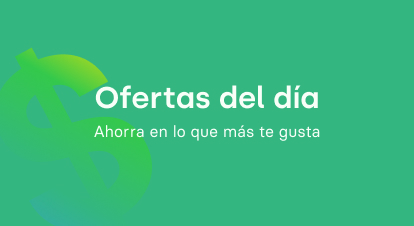
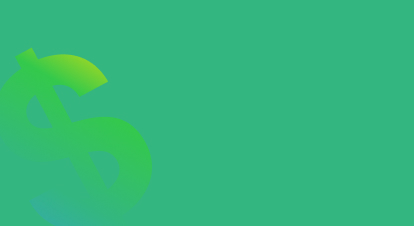
Add OffersView
Add OffersView

Changed region(s): [[0.2319, 0.3717, 0.7826, 0.4956], [0.2319, 0.5575, 0.7826, 0.6195]]

diff --git a/src/views/Offers.vue b/src/views/Offers.vue
@@ -1,0 +1,49 @@
+<template>
+  <div>
+    <Header v-on:open-cart="cart = true" v-on:close-cart="cart = false" v-bind:cart="cart"></Header>
+    <div class="offers-background">
+      <h1 class="h1 offers-title">Ofertas del día</h1>
+      <div class="body offers-subtitle">Ahorra en lo que más te dusta</div>
+    </div>
+    <DishCard v-for="dish in dishes" v-bind:key="dish.id" v-bind:dish="dish"></DishCard>
+    <div class="medium-body text-at-the-end">Eso es todo por hoy :)</div>
+    <div class="navigation-space"></div>
+    <Nav activeWindow="profile"></Nav>
+  </div>
+</template>
+
+<script>
+import Header from '../components/Header.vue'
+import Nav from '../components/Nav.vue'
+import DishCard from '../components/DishCard.vue'
+
+// Services
+import { getDishesOffers } from '@/services/dishes'
+
+export default {
+  name: 'OffersView',
+  data: function () {
+    return {
+      cart: false,
+      dishes: []
+    }
+  },
+  created: function () {
+    getDishesOffers().then(res => {
+      this.dishes = res.data
+      console.log(this.dishes)
+      this.dishes.forEach(dish => {
+        dish.dish_path_photography = require('../assets/img/dish-pictures/' + dish.dish_path_photography)
+      })
+    })
+  },
+  components: {
+    Header,
+    Nav,
+    DishCard
+  }
+}
+</script>
+
+<style lang="scss" src="../scss/Offers/_skeleton.scss"></style>
+<style lang="scss" src="../scss/Offers/_skin.scss"></style>

diff --git a/src/components/DishCategoryCardHome.vue b/src/components/DishCategoryCardHome.vue
@@ -2,7 +2,7 @@
   <div class="dish-category-menu">
     <h4 class="h4 dish-category">{{ dishCategory.name }}</h4>
     <DishCard v-for="dish in dishCategory.dishes" v-bind:key="dish.id" v-bind:dish="dish"></DishCard>
-    <div class="btn-view-all">
+    <div @click="goViewAll" class="btn-view-all">
       <p class="text-view-all">Ver todos</p>
       <img class="arrow-img" src="../assets/img/arrow-icon.svg" alt="">
     </div>
@@ -14,7 +14,14 @@ import DishCard from './DishCard.vue'
 
 export default {
   name: 'DishCategoryCardHome',
-  props: ['dishCategory'],
+  props: ['dishCategory', 'viewAllItems'],
+  methods: {
+    goViewAll: function () {
+      this.$router.push({name: this.viewAllItems}).catch(err => {
+        console.log(err)
+      })
+    }
+  },
   components: {
     DishCard
   }

diff --git a/src/views/Home.vue b/src/views/Home.vue
@@ -6,8 +6,8 @@
       <a class="button btnCTAOrder" href="/#/menu-dishes">Ordenar</a>
     </div>
     <div class="dish-categories">
-      <DishCategoryCardHome v-bind:key="dishCategoryTime.id" v-bind:dishCategory="dishCategoryTime"></DishCategoryCardHome>
-      <DishCategoryCardHome v-bind:key="dishCategoryOffers.id" v-bind:dishCategory="dishCategoryOffers"></DishCategoryCardHome>
+      <DishCategoryCardHome v-bind:key="dishCategoryTime.id" v-bind:dishCategory="dishCategoryTime" v-bind:viewAllItems="'OffersView'"></DishCategoryCardHome>
+      <DishCategoryCardHome v-bind:key="dishCategoryOffers.id" v-bind:dishCategory="dishCategoryOffers" v-bind:viewAllItems="'OffersView'"></DishCategoryCardHome>
     </div>
     <div class="navigation-space"></div>
     <Nav activeWindow="home"></Nav>

diff --git a/src/router/index.js b/src/router/index.js
@@ -12,6 +12,7 @@ import Signup2View from '@/views/Signup2'
 import ProfileView from '@/views/Profile'
 import OrdersView from '@/views/Orders'
 import RestaurantView from '@/views/Restaurant'
+import OffersView from '@/views/Offers'
 
 Vue.use(Router)
 
@@ -66,6 +67,11 @@ export default new Router({
       path: '/restaurant',
       name: 'RestaurantView',
       component: RestaurantView
+    },
+    {
+      path: '/offers',
+      name: 'OffersView',
+      component: OffersView
     }
   ]
 })

diff --git a/src/views/Profile.vue b/src/views/Profile.vue
@@ -5,7 +5,7 @@
       <div class="medium-body welcomeGreet">{{getGreet()}}, bienvenido</div>
       <h2 class="h2 profile-name">{{first_name}}</h2>
       <div class="medium-body profile-text-pedidos-realizados">Pedidos realizados</div>
-      <div class="log-in-text profile-orders">12</div>
+      <div class="log-in-text profile-orders">0</div>
     </div>
     <div class="profile-container-bottom">
       <div class="medium-body profile-text-detail">Correo electrónico</div>

diff --git a/src/scss/Offers/_skin.scss b/src/scss/Offers/_skin.scss
@@ -1,0 +1,18 @@
+//Offers skin
+
+.offers-background {
+    background-image: url(../../assets/img/offers_background.jpg);
+    background-position: center;
+    background-repeat: no-repeat;
+    background-size: cover;
+}
+
+.offers-title, .offers-subtitle {
+    background-color: transparent;
+    color: var(--white-over-green);
+    text-align: center;
+}
+
+.text-at-the-end {
+    color: var(--placeholder);
+}

diff --git a/src/scss/Offers/_skeleton.scss b/src/scss/Offers/_skeleton.scss
@@ -1,0 +1,12 @@
+//Offers skeleton
+
+.offers-background {
+    padding: 80px;
+}
+
+.text-at-the-end {
+    display: flex;
+    justify-content: center;
+    align-items: center;
+    margin: 42px;
+}
